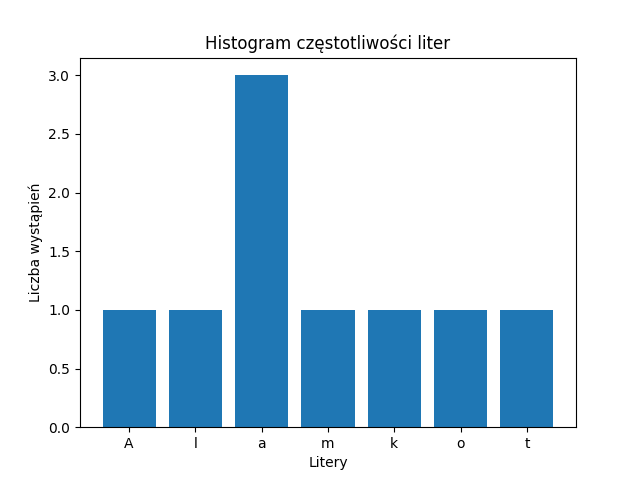
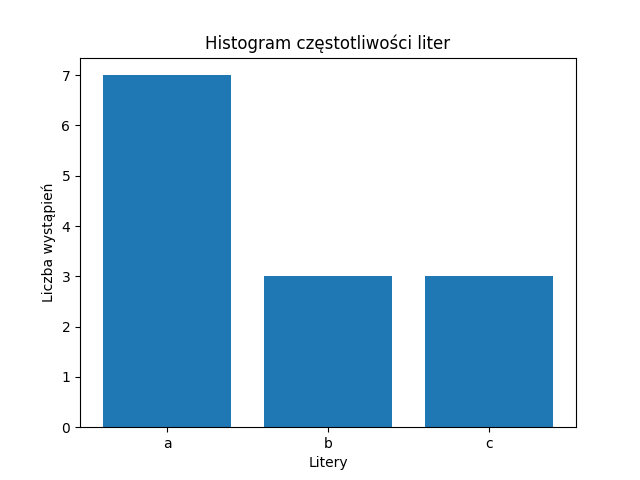
Feature działa, trwa usprawnianie

diff --git a/main.py b/main.py
@@ -13,15 +13,25 @@ def read_text_from_file(file_path):
     return text
 
 
-def generate_histogram_from_text(text):
+def generate_histogram_from_text(text, chars):
     letter_counts = {}
-    for char in text:
-        if char.isalpha():
-            # char = char.lower()  #wyłączenie wielkich liter
-            if char in letter_counts:
-                letter_counts[char] += 1
-            else:
-                letter_counts[char] = 1
+    if chars == "":
+        for char in text:
+            if char.isalpha():
+                # char = char.lower()  #wyłączenie wielkich liter
+                if char in letter_counts:
+                    letter_counts[char] += 1
+                else:
+                    letter_counts[char] = 1
+    else:
+        for char in text:
+            if char in chars:
+                if char.isalpha():
+                    # char = char.lower()  #wyłączenie wielkich liter
+                    if char in letter_counts:
+                        letter_counts[char] += 1
+                    else:
+                        letter_counts[char] = 1
     return letter_counts
 
 
@@ -54,19 +64,19 @@ def read_text_from_url(url):
         return ""
 
 
-def generate_and_save(text, output_file):
-    save_histogram_to_file(generate_histogram_from_text(text), output_file)
+def generate_and_save(text, chars, output_file):
+    save_histogram_to_file(generate_histogram_from_text(text, chars), output_file)
 
 
 sciezka = os.getcwd()
 file_path = sciezka + ('\\source_file.txt')
 output_file = sciezka + ('\\histogram.png')
-ans = input("Domyślnie liczane są wszystkie litery w tekście. Czy chcesz podać listę liter do sprawdzenia?")
-
+print("Domyślnie liczane są wszystkie litery w tekście.")
+ans = input("Czy chcesz podać listę liter do sprawdzenia? (tak/nie): ")
+litery = ""
 if ans.lower() == "tak" or ans.lower() == "t":
     litery = input("Podaj zestaw liter, oddziel poszczególne litery znakiem ','. Przykład: a,b,c : ")
-    for char in litery.split(','):
-        print(char)
+    litery = litery.split(",")
 
 
 print("Wybierz skąd wprowadzić dane:")
@@ -74,23 +84,22 @@ print("1. Wprowadź z klawiatury.")
 print("2. Podaj adres URL.")
 print("3. Wczytaj z pliku source.txt")
 option = input("Wybierz (1-2):")
-text = ""
 flag = True
 while flag:
     if option == "1":
         flag = False
         text = input("Wprowadź tekst:")
-        generate_and_save(text, output_file)
+        generate_and_save(text, litery, output_file,)
 
     elif option == "2":
         flag = False
         url = input("Wprowadź adres: ")
         text = read_text_from_url(url)
-        generate_and_save(text, output_file)
+        generate_and_save(text, litery, output_file)
 
     elif option == "3":
         flag = False
         text = read_text_from_file(file_path)
-        generate_and_save(text,output_file)
+        generate_and_save(text, litery, output_file)
     else:
         option = input("Błąd. Wybierz (1-2):")
